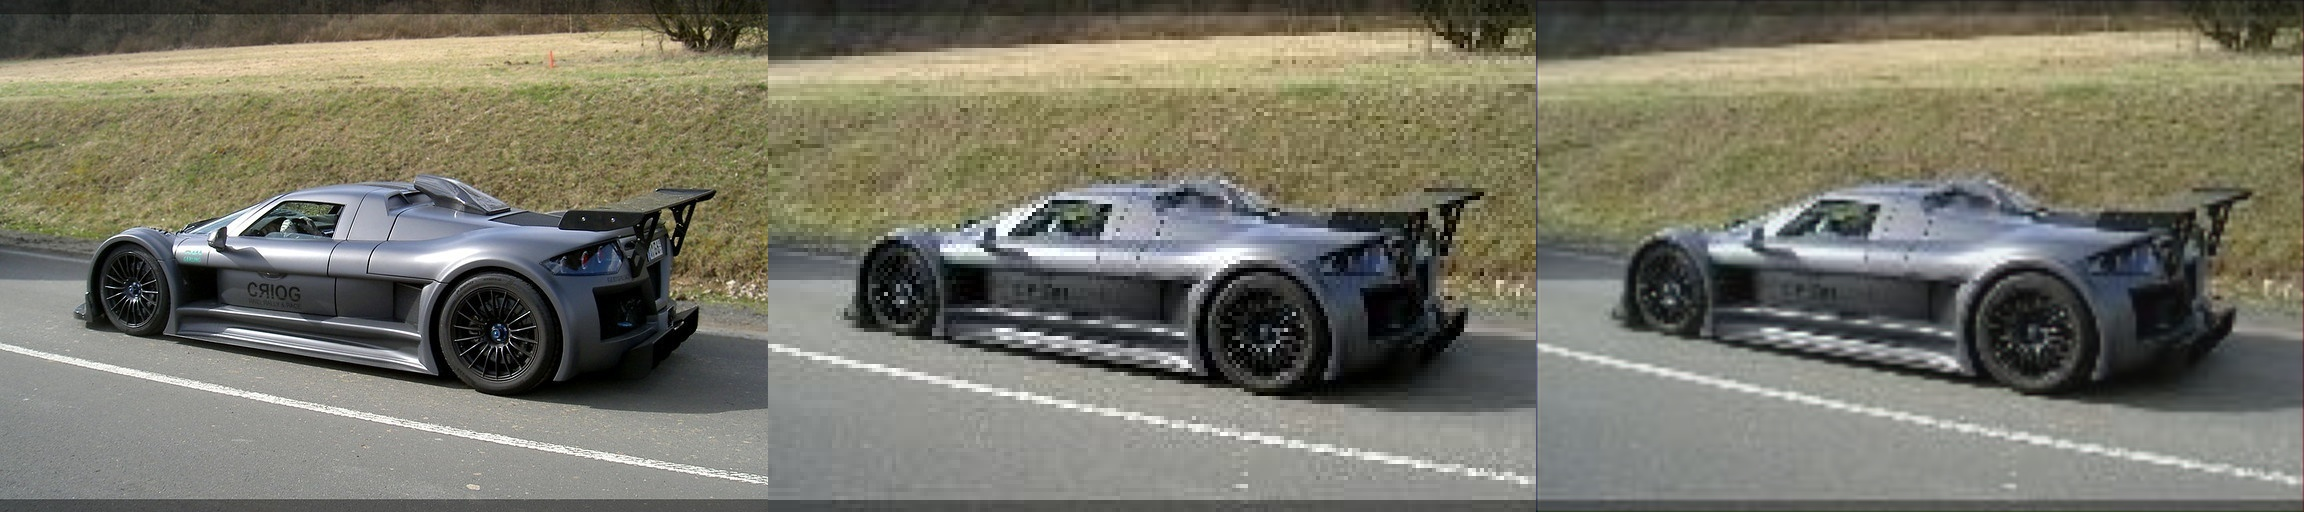
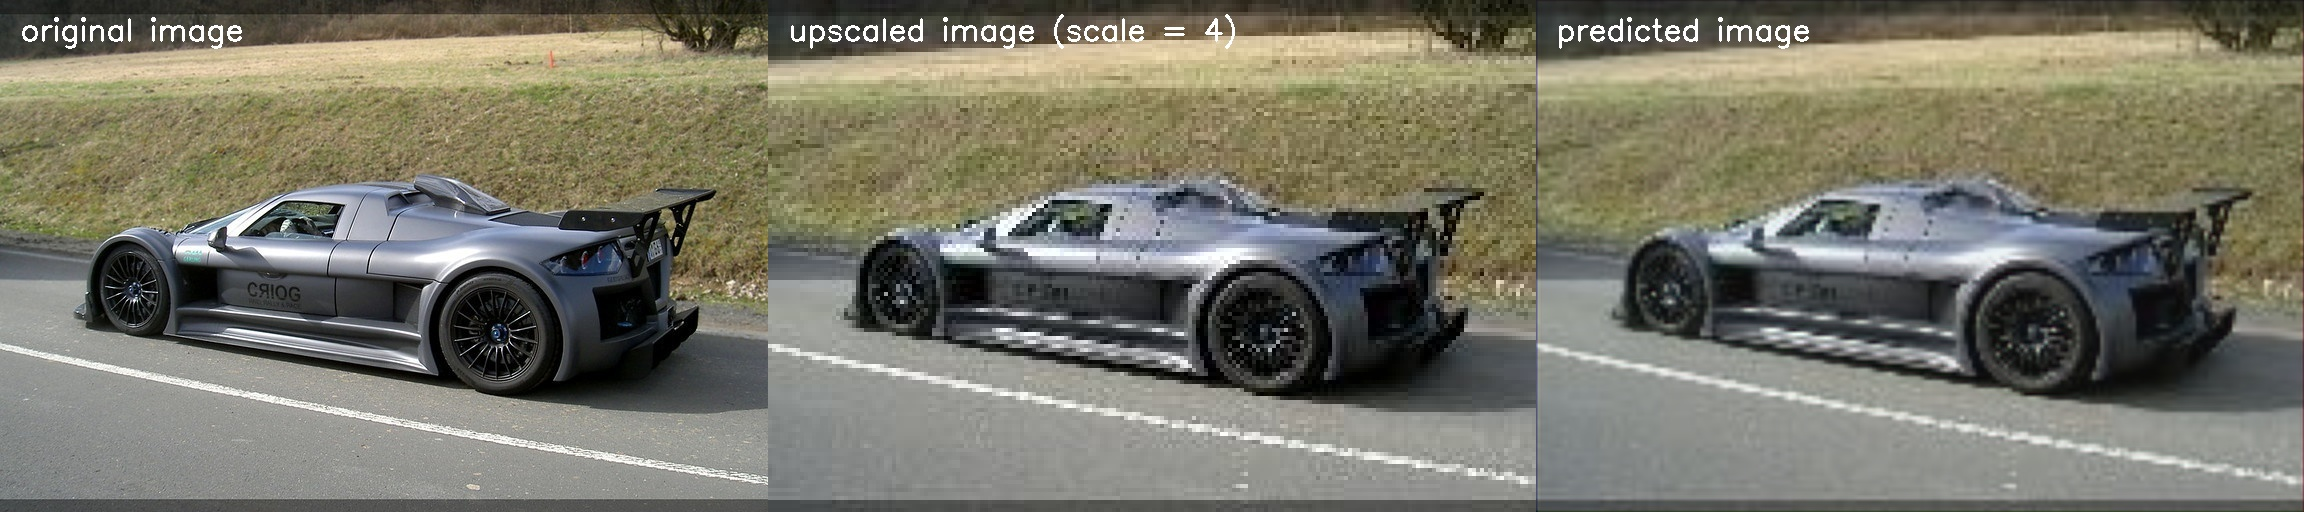
minor additions

Changed region(s): [[0.3438, 0.0312, 0.5312, 0.0938], [0.6562, 0.0312, 0.7812, 0.0938], [0.0, 0.0312, 0.125, 0.0938]]

diff --git a/load_model.py b/load_model.py
@@ -5,8 +5,7 @@ Created on Fri Nov 15 00:12:47 2019
 @author: valdis
 """
 
-import cv2
-import numpy as np
+import cv2, numpy as np
 from keras.models import load_model
 
 def predict_image(model, image_path): 
@@ -39,5 +38,9 @@ if __name__ == "__main__":
     cv2.imwrite(predict_image_path, predicted_image)
     
     original_image = cv2.imread(original_image_path)
+    cv2.putText(original_image, 'original image', (20, 40), cv2.FONT_HERSHEY_SIMPLEX, 1.0, (255, 255, 255), 2)
+    cv2.putText(upscaled_image, 'upscaled image (scale = 4)', (20, 40), cv2.FONT_HERSHEY_SIMPLEX, 1.0, (255, 255, 255), 2)
+    cv2.putText(predicted_image, 'predicted image', (20, 40), cv2.FONT_HERSHEY_SIMPLEX, 1.0, (255, 255, 255), 2)
+        
     concatenated_image = np.concatenate((original_image, upscaled_image, predicted_image), axis=1)
     cv2.imwrite(merge_image_path, concatenated_image)
